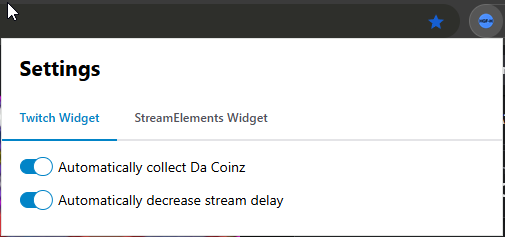
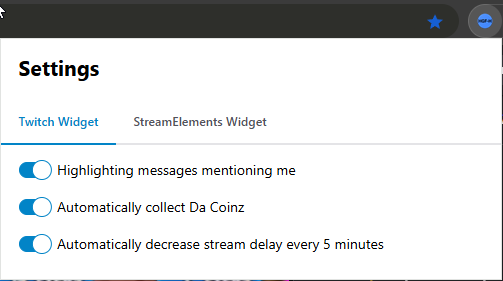
Update readme

Changed region(s): [[0.0, 0.0295, 1.0, 1.0], [0.0, 0.0, 0.0596, 0.0886]]

diff --git a/entrypoints/popup/index.html b/entrypoints/popup/index.html
@@ -5,7 +5,7 @@
   <title>HGF-Helper</title>
 </head>
 <body>
-<h1 class="hgf-offset-bottom--medium hgf-popup-title">Settings</h1>
+<h1 class="hgf-offset-bottom--large hgf-popup-title">Settings</h1>
 
 <sl-tab-group>
   <sl-tab slot="nav" panel="twitch">Twitch Widget</sl-tab>
@@ -13,26 +13,25 @@
 
   <!-- Twitch Widget -->
   <sl-tab-panel name="twitch" class="sl-tab-panel">
-    <sl-switch class="sl-switch hgf-offset-bottom--medium" data-setting="highlightMentions">
+    <sl-switch class="sl-switch hgf-offset-bottom--large" data-setting="highlightMentions">
       Highlighting messages mentioning me
     </sl-switch>
 
-    <sl-switch class="sl-switch hgf-offset-bottom--medium" data-setting="collectDaCoinz">
+    <sl-switch class="sl-switch hgf-offset-bottom--large" data-setting="collectDaCoinz">
       Automatically collect Da Coinz
     </sl-switch>
 
     <sl-switch class="sl-switch" data-setting="decreaseStreamDelay">
-      Automatically decrease stream delay
+      Automatically decrease stream delay every 5 minutes
     </sl-switch>
   </sl-tab-panel>
 
   <!-- StreamElements Widget -->
   <sl-tab-panel name="stream-elements" class="sl-tab-panel">
     <sl-input
-      help-text="Not Required"
       data-setting="jsonBinUrl"
       placeholder="https://api.jsonbin.io/v3/b/************************"
-      class="sl-input hgf-offset-bottom--medium"
+      class="sl-input hgf-offset-bottom--large"
     >
       <label slot="label">
         JSONBin URL
@@ -40,14 +39,14 @@
       </label>
     </sl-input>
 
-    <sl-input help-text="Not Required" data-setting="jsonBinMasterKey" class="sl-input hgf-offset-bottom--medium">
+    <sl-input data-setting="jsonBinMasterKey" class="sl-input hgf-offset-bottom--large">
       <label slot="label">
         JSONBin X-Master Key
         <sl-icon-button name="box-arrow-up-right" href="https://jsonbin.io/app/app/api-keys" target="_blank"></sl-icon-button>
       </label>
     </sl-input>
 
-    <sl-input help-text="Not Required" data-setting="jsonBinAccessKey" class="sl-input hgf-offset-bottom--medium">
+    <sl-input data-setting="jsonBinAccessKey" class="sl-input hgf-offset-bottom--large">
       <label slot="label">
         JSONBin X-Access Key
         <sl-icon-button name="box-arrow-up-right" href="https://jsonbin.io/app/app/api-keys" target="_blank"></sl-icon-button>

diff --git a/entrypoints/popup/style.css b/entrypoints/popup/style.css
@@ -23,6 +23,6 @@ body {
   padding: 0 var(--sl-spacing-large);
 }
 
-.hgf-offset-bottom--medium {
-  margin-bottom: var(--sl-spacing-medium);
+.hgf-offset-bottom--large {
+  margin-bottom: var(--sl-spacing-large);
 }
